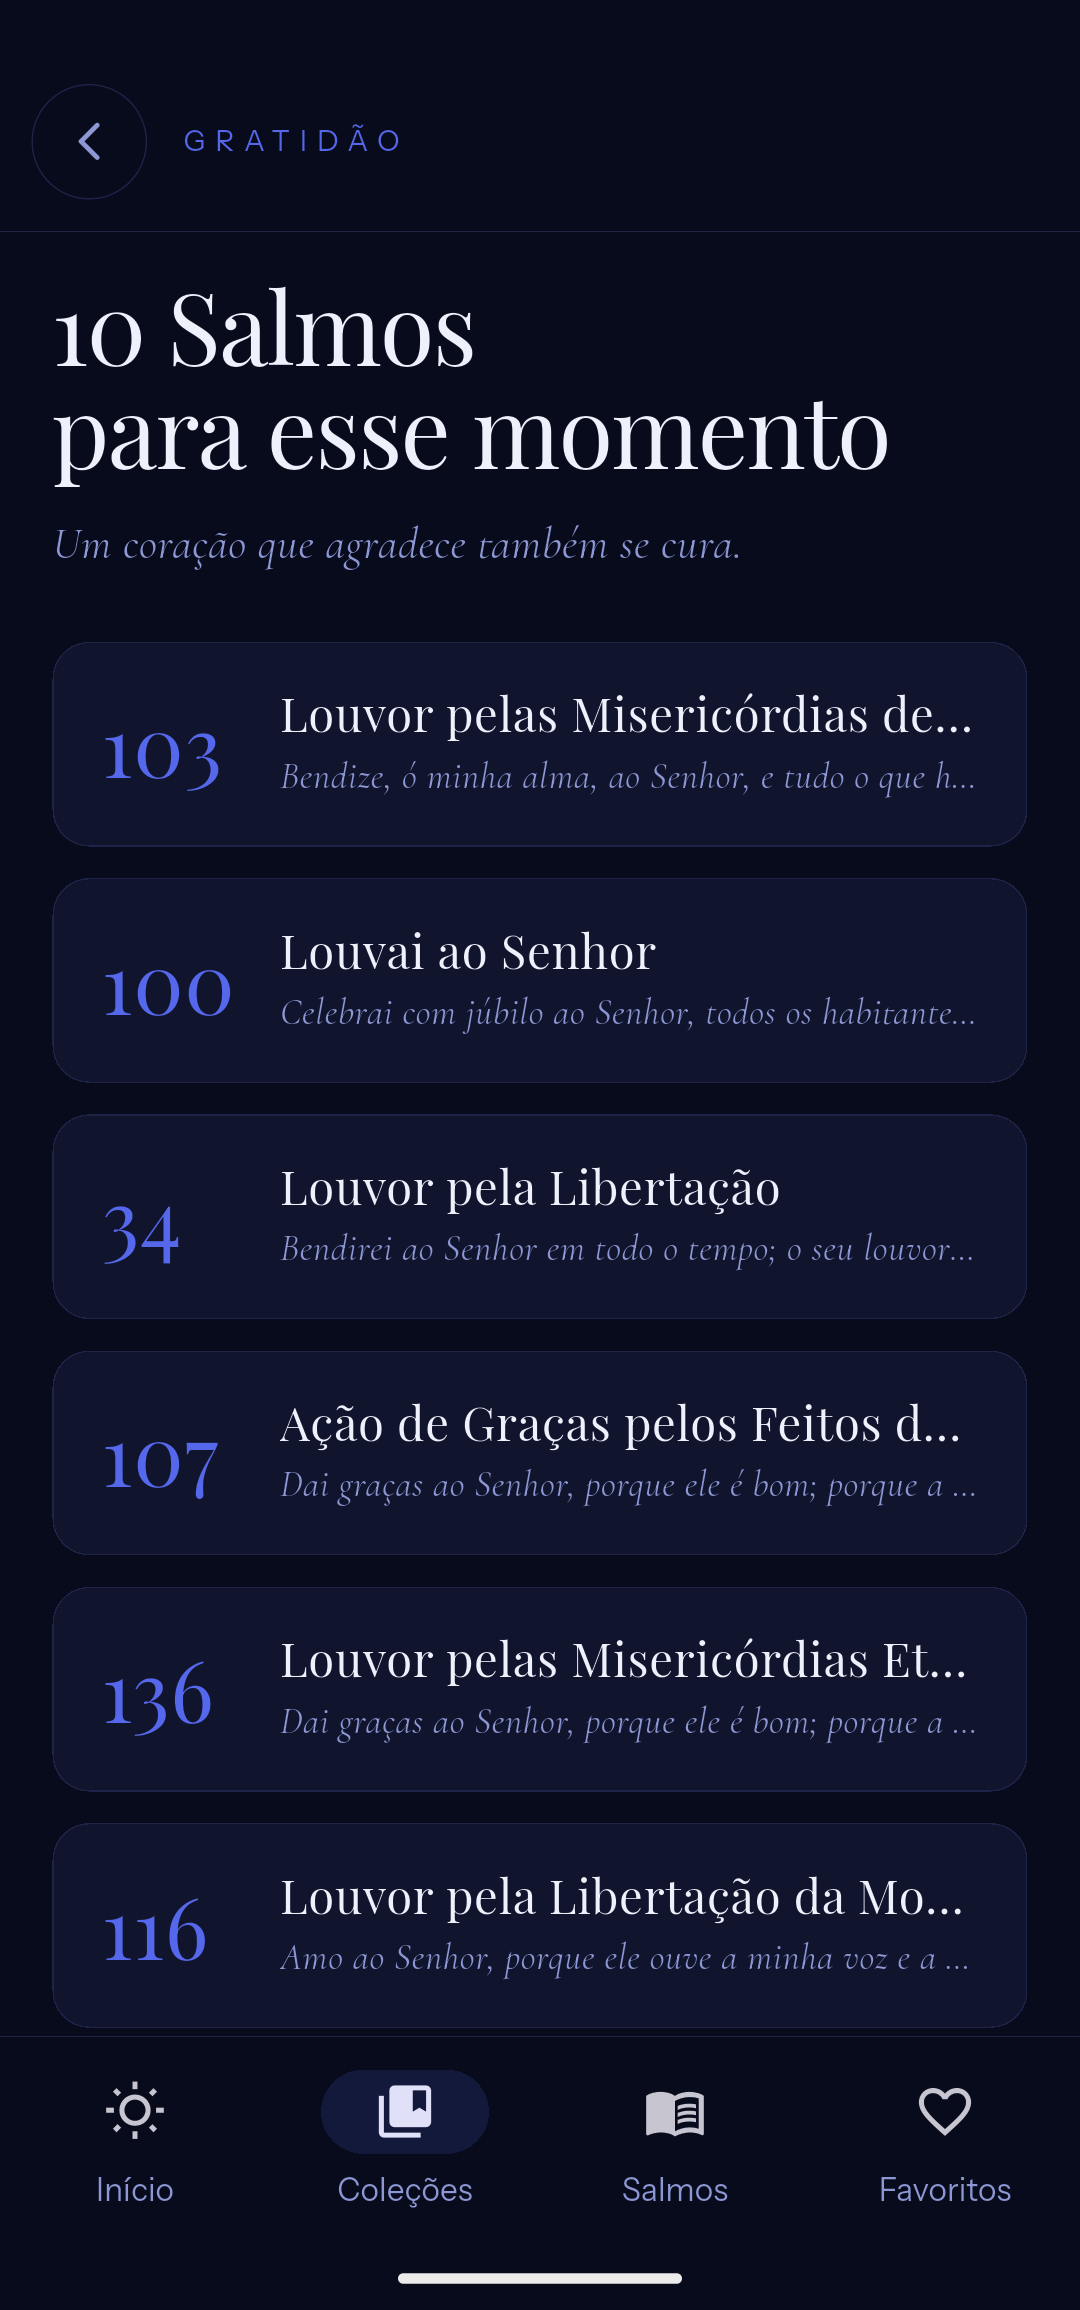
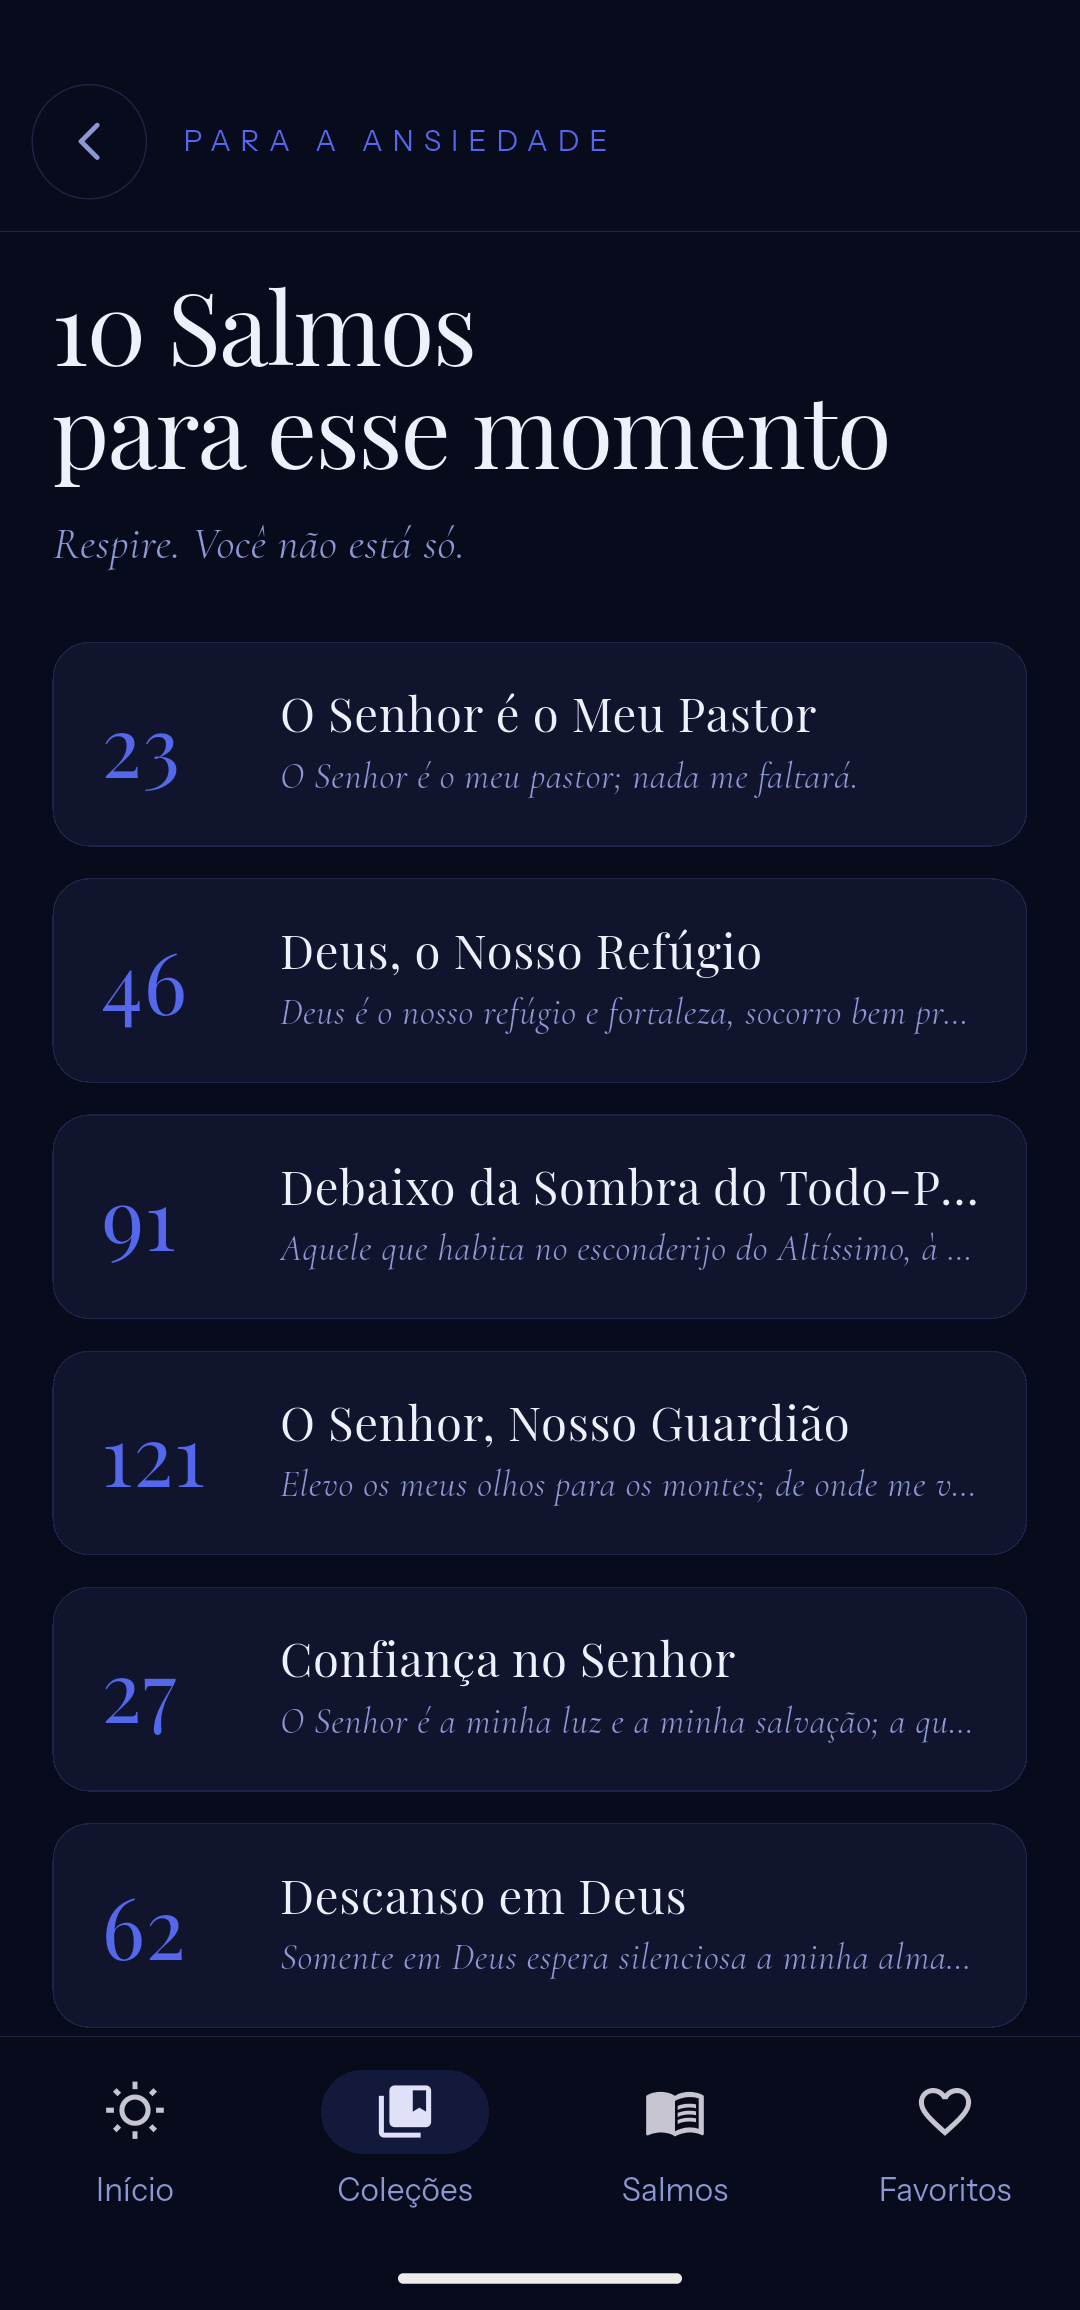
assets(play-store): s5 refeito com colecao Ansiedade (carro-chefe)
Eyebrow 'Colecao Ansiedade' + tela 'Para a Ansiedade' (salmos 23/46/91) +
verso Salmo 23 no rodape agora coerentes. Recaptura no emulador (dark).

diff --git a/play-store/screenshots/final/s5-colecao.html b/play-store/screenshots/final/s5-colecao.html
@@ -248,7 +248,7 @@
   <div class="top-block">
     <div class="eyebrow-row">
       <div class="dot"></div>
-      <span class="eyebrow">Coleção Gratidão</span>
+      <span class="eyebrow">Coleção Ansiedade</span>
     </div>
     <h1 class="headline">Curadoria,<br>não acaso</h1>
   </div>
